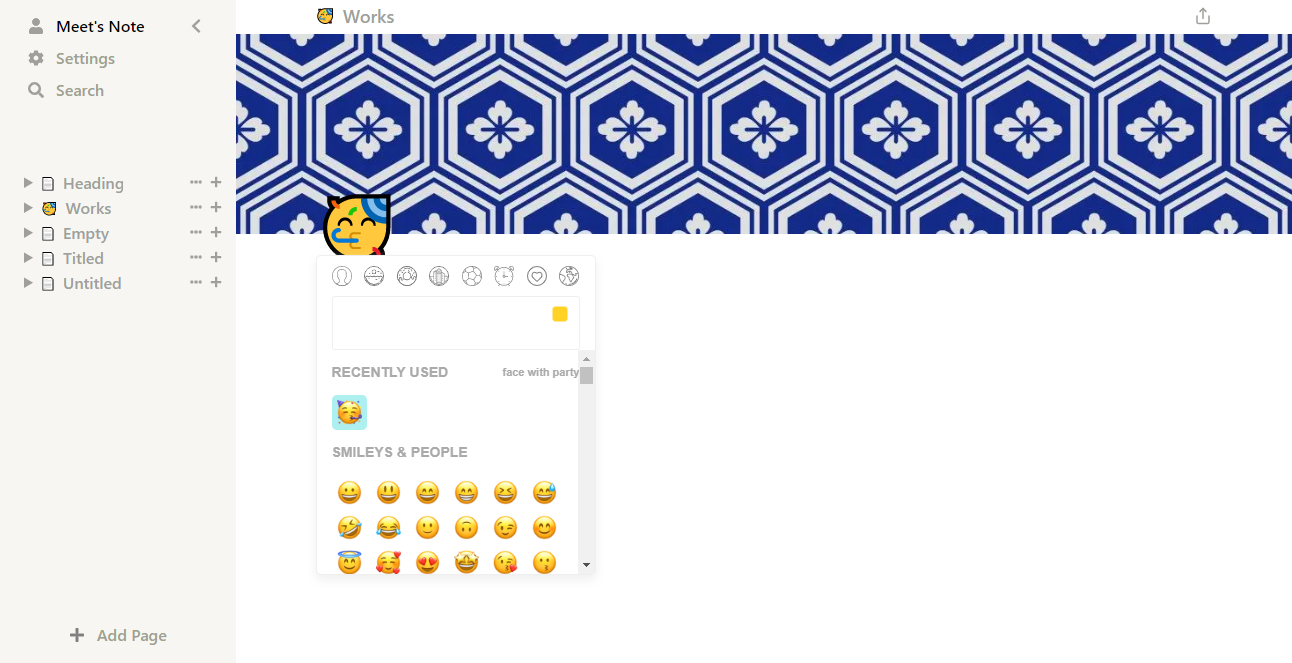
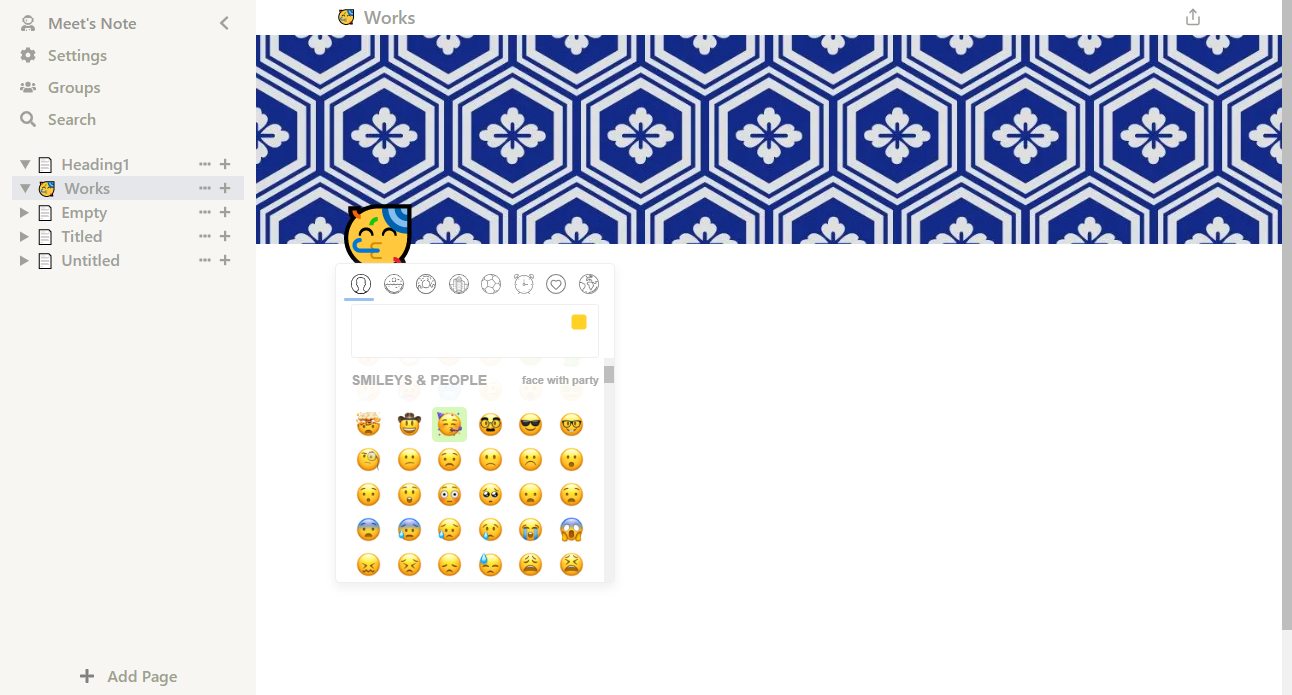
Minor UI update

diff --git a/hyper-note-frontend-new/src/components/home_components/sidebar_components/UserList.tsx b/hyper-note-frontend-new/src/components/home_components/sidebar_components/UserList.tsx
@@ -8,21 +8,24 @@ const UserList = () => {
     const [popUp, setPopUp] = useState(false);
     const [coordinate, setcoordinate] = useState({ x: 0, y: 0 })
     const useID = useRef("");
-    const handleDelete = () =>{
+    const handleDelete = () => {
         if (useID.current == "") return;
-        dispatch({type: "DELETE_LIST", payload: {id: useID.current}})
+        dispatch({ type: "DELETE_LIST", payload: { id: useID.current } })
         setPopUp(false)
     }
     return (
         <div className='h-[75%] sm:h-[73%] bg-[#f7f6f3] flex flex-col items-start justify-start w-full overflow-auto px-3'>
             {state.userlist.map((data, index) =>
-                <div key={index} className="w-full justify-between items-center flex hover:bg-gray-200">
-                    <details className='text-[#a19f9a] px-2 text-md'>
-                        <summary className='overflow-hidden font-semibold whitespace-nowrap text-ellipsis max-w-[8rem] sm:max-w-[10rem] '>
-                            <button className='text-sm'> {data.icon !== '' ? data.icon : "📄"} </button>
-                            <div className="inline w-11/12 px-2 cursor-pointer"
-                                onClick={() => dispatch({ type: "SET_CURRECT_PAGE", payload: { current: data } })} >
-                                {data.heading}</div>
+                <div key={index} className={`w-full justify-between items-center flex ${data.id === state.selected.id ? "bg-gray-200" : ""} hover:bg-gray-200`}>
+                    <details className={`text-[#a19f9a] px-2 text-md `} >
+                        <summary className='font-semibold px-1 max-w-[9rem] sm:max-w-[11rem] '>
+                            <span className='inline-flex gap-x-2 max-w-[5rem] sm:max-w-[7rem]'>
+                                <button className='text-sm'> {data.icon !== '' ? data.icon : "📄"} </button>
+                                <button className='whitespace-nowrap text-ellipsis overflow-hidden'
+                                    onClick={() => dispatch({ type: "SET_CURRECT_PAGE", payload: { current: data } })} >
+                                    {data.heading}
+                                </button>
+                            </span>
                         </summary>
                     </details>
                     <div className="flex items-center justify-center w-1/4">
@@ -46,8 +49,8 @@ const UserList = () => {
                         <div className={`max-w-sm p-2  rounded-md shadow-[8px_2px_50px_-30px_rgba(0,0,0,0.6)] text-sm bg-white  flex flex-col`}>
                             <div className='min-w-[10rem]'>
                                 <button
-                                onClick={handleDelete} 
-                                className='flex-1 hover:bg-gray-200 p-2 gap-x-4 w-full flex justify-between items-center'>
+                                    onClick={handleDelete}
+                                    className='flex-1 hover:bg-gray-200 p-2 gap-x-4 w-full flex justify-between items-center'>
                                     <div>Delete</div>
                                     <FaTrash color="gray" />
                                 </button>

diff --git a/README.md b/README.md
@@ -11,6 +11,10 @@
 ##### User Page View 1
 ![User Page View 1](/assets/UserPage1.png)
 ##### User Page View 2
-![User Page View 3](/assets/UserPage2.png)
+![User Page View 2](/assets/UserPage2.png)
+##### User Page View 3
+![User Page View 3](/assets/UserPage3.png)
 ##### Customizable icon 
-![User Page View 2](/assets/EmojiIcon.png)
+![Emoji Feature](/assets/EmojiIcon.png)
+##### Responsive Design 
+![Responsize Design](/assets/Responsive.png)

diff --git a/hyper-note-frontend-new/README.md b/hyper-note-frontend-new/README.md
@@ -7,5 +7,6 @@ Next Goals:
 - [x] Emoji Integration
 - [x] Dynamic Emoji Selection
 - [x] Modal for cover image and sidebar
+- [ ] Integrate Google Authentication with OAuth 2.0 for Login and Register Page
 - [ ] Dynamic Cover Image Selection
 - [ ] Dark mode
